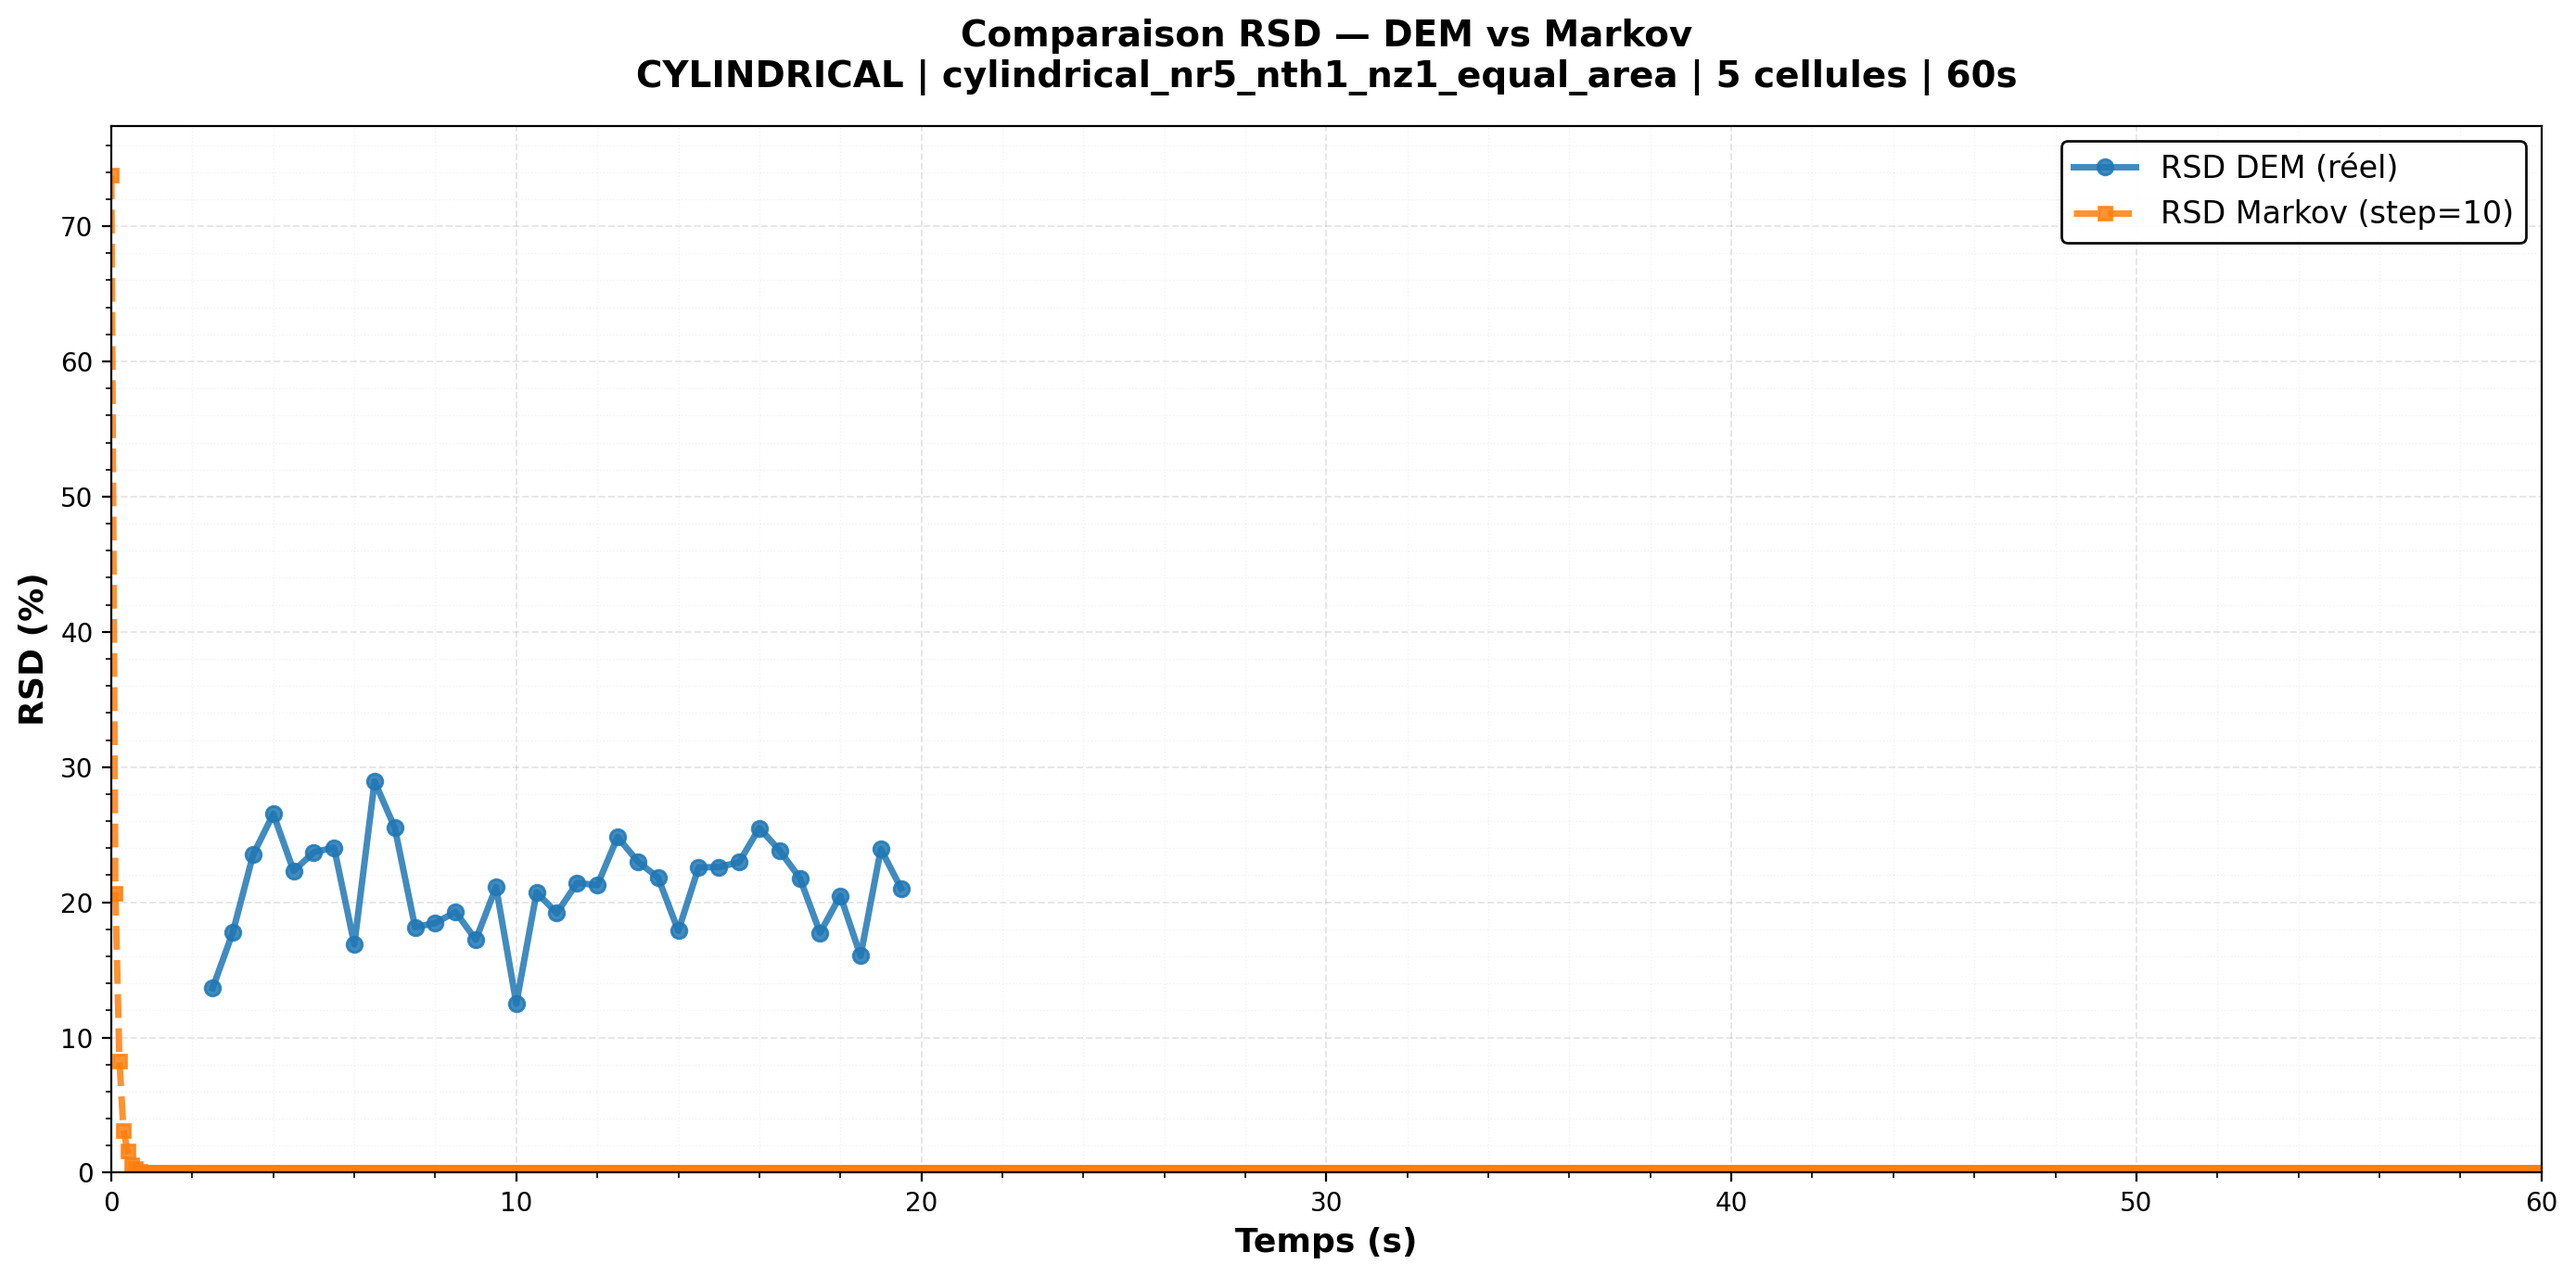
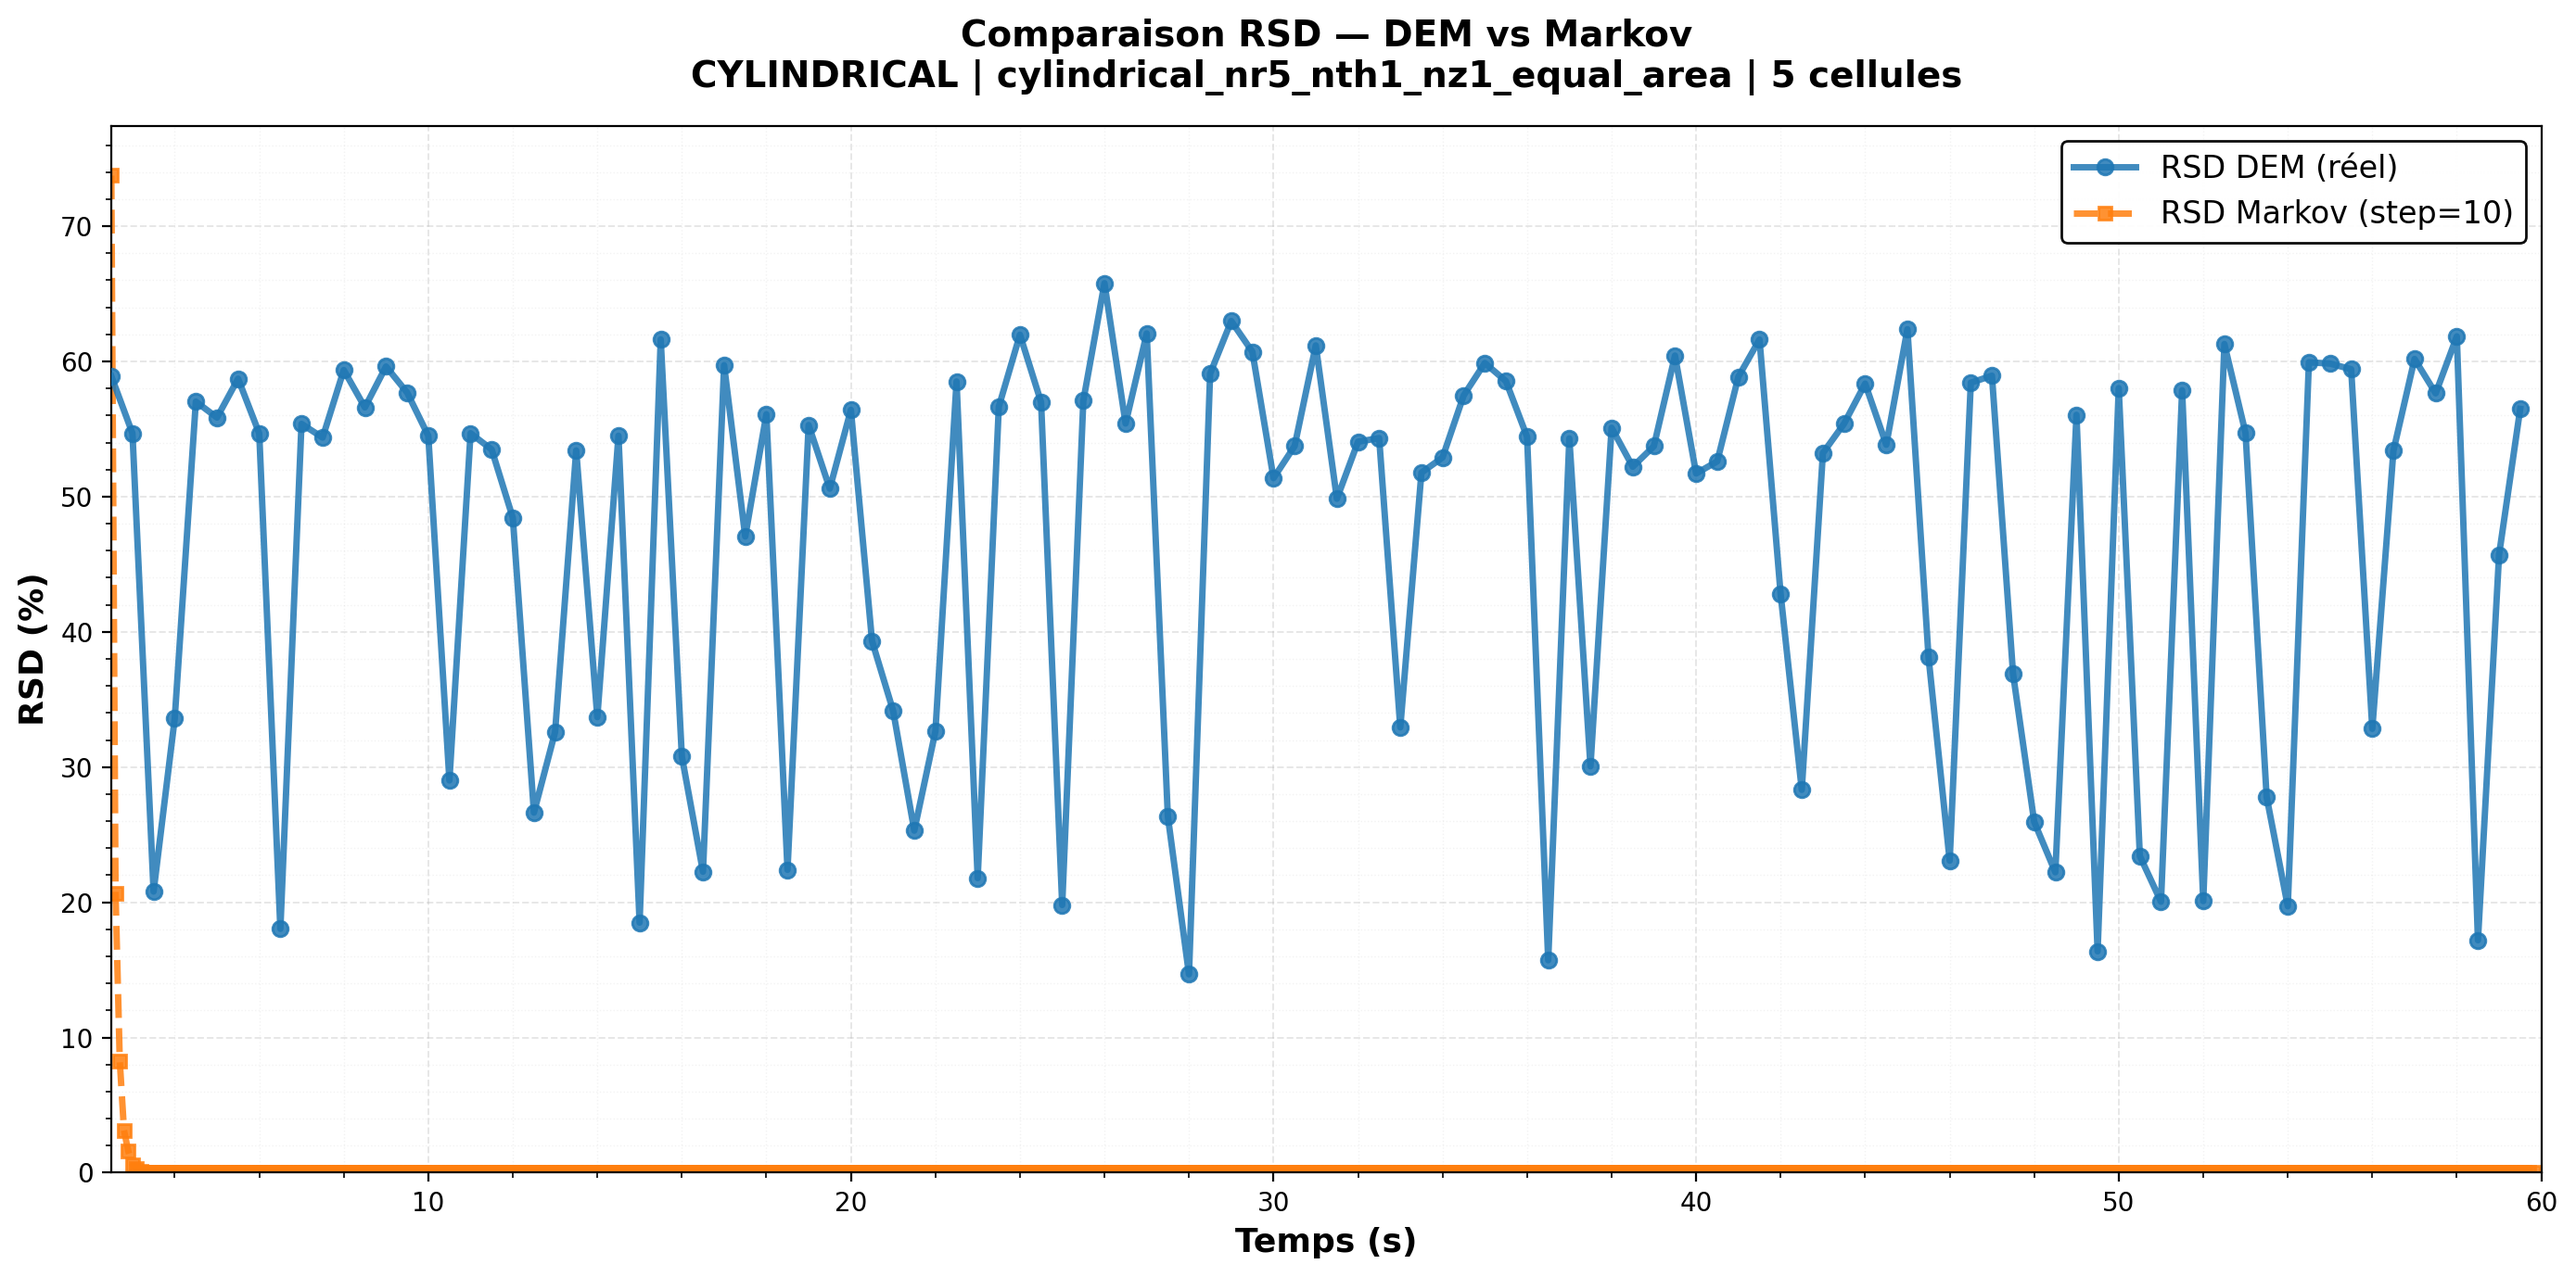
⏱ Plot DEM and Markov RSD aligned on [start, 60s] time axis
**Final implementation:**
- plot_dem_vs_markov_simple(): Recalculates BOTH DEM and Markov RSD
- DEM: loads files from start (250) to 5999 by step of 50
  → 115 snapshots from 2.50s to 59.50s
- Markov: starts at same time as DEM (start*0.01)
  → 574 predictions from 2.50s to 59.80s
- Both curves aligned on same time axis [2.50s, ~60s]

**Test results:**
✅ DEM: 115 points from 2.50s to 59.50s
✅ Markov: 574 points from 2.50s to 59.80s
✅ Figure saved: rsd_cylindrical_60s.png

diff --git a/DEM_MCM/src/analyze_results.py b/DEM_MCM/src/analyze_results.py
@@ -2056,139 +2056,124 @@ Ajoutez ces méthodes à la classe MarkovAnalyzer dans analyze_results.py
     def plot_dem_vs_markov_simple(self, dem_rsd, partitioner, method, 
                                    folder_name=None, max_time_seconds=60, figsize=(14, 7), save_name=None):
         """
-        ✅ Affiche SEULEMENT les courbes RSD DEM vs Markov sur 60 secondes.
+        ✅ Affiche SEULEMENT les courbes RSD DEM vs Markov sur [start, 60s].
         
         - Chaque fichier DEM = 0.01 secondes
-        - Le 'step' de Markov = pas de temps en centièmes de secondes (step=10 → 0.1s)
-        - Markov prédit sur 60s: n_steps = 6000 / step
-        
-        Args:
-            dem_rsd: résultats RSD DEM
-            partitioner: partitionneur utilisé
-            method: nom de la méthode
-            folder_name: nom du folder Markov (pour extraire le step)
-            max_time_seconds: temps final (par défaut 60s)
-            figsize: taille de la figure
-            save_name: nom du fichier de sortie
+        - DEM: fichiers de start à last_available (par pas de 50)
+        - Markov: step fichiers = pas de temps en centièmes de secondes
+        - Les deux courbes sont alignées sur le même axe de temps
         """
-        fig, ax = plt.subplots(figsize=figsize)
+        import re
+        from .partitioners import create_partitioner
         
-        # ════════════════════════════════════════════════════════════════
-        # 1. EXTRACTION DES PARAMÈTRES MARKOV
-        # ════════════════════════════════════════════════════════════════
+        fig, ax = plt.subplots(figsize=figsize)
         
         if folder_name is None:
             folder_name = [k for k in self.results.keys()][0] if self.results else ""
         
-        import re
+        start_match = re.search(r'start(\d+)', folder_name)
         step_match = re.search(r'step(\d+)', folder_name)
+        
+        start_file = int(start_match.group(1)) if start_match else 250
         markov_step = int(step_match.group(1)) if step_match else 10
         
-        # Temps physique par pas Markov (en secondes)
-        dt_markov_seconds = markov_step * 0.01  # step=10 → 0.1s
+        total_files = 5999
         
-        # Nombre de pas Markov pour couvrir 60 secondes
-        n_steps_markov = int(max_time_seconds / dt_markov_seconds)
-        print(f"\n📊 Paramètres Markov:")
-        print(f"   Step = {markov_step} fichiers = {dt_markov_seconds:.3f}s par pas")
-        print(f"   Prédiction: {n_steps_markov} pas pour {max_time_seconds}s")
+        print(f"\n📊 Paramètres:")
+        print(f"   Start = fichier {start_file} ({start_file*0.01:.2f}s)")
+        print(f"   Dernier fichier = {total_files} ({total_files*0.01:.2f}s)")
+        print(f"   Markov step = {markov_step} fichiers = {markov_step*0.01:.3f}s par pas")
         
-        # ════════════════════════════════════════════════════════════════
-        # 2. CALCUL RSD MARKOV SUR 60 SECONDES
-        # ════════════════════════════════════════════════════════════════
+        # Charger les snapshots DEM de start à 6000
+        file_indices = list(range(start_file, total_files + 1, 50))
+        print(f"   Chargement DEM: {len(file_indices)} fichiers")
         
-        M = self.get_matrix(folder_name)
-        initial_time = dem_rsd.get("times", [0])[0] if "times" in dem_rsd else 250
+        self.load_dem_snapshots(file_indices=file_indices)
+        if self.species_labels is None:
+            self.label_species()
         
-        # Calculer les conditions initiales depuis les données DEM
-        snap0_idx = int(initial_time)
-        if not self.dem_snapshots or self.dem_snapshots[0]["t"] != snap0_idx:
-            self.load_dem_snapshots(file_indices=[snap0_idx])
-        
-        snap0 = self.dem_snapshots[0]
-        coords0 = snap0["coords"]
-        
-        # Créer un partitionneur qui correspond à la méthode Markov
-        from .partitioners import create_partitioner
-        
-        # Extraire les paramètres du folder name
+        # Créer partitionneur Markov
         nr_match = re.search(r'nr(\d+)', folder_name)
         nth_match = re.search(r'nth(\d+)', folder_name)
         nz_match = re.search(r'nz(\d+)', folder_name)
         nx_match = re.search(r'nx(\d+)', folder_name)
         ny_match = re.search(r'ny(\d+)', folder_name)
         
-        # Déterminer la méthode et créer le bon partitionneur
-        markov_partitioner = None
         if 'cylindrical' in method.lower() and nr_match and nth_match:
             nr = int(nr_match.group(1))
             nth = int(nth_match.group(1))
             nz_val = int(nz_match.group(1)) if nz_match else 1
-            markov_partitioner = create_partitioner("cylindrical", nr=nr, ntheta=nth, nz=nz_val)
+            markov_part = create_partitioner("cylindrical", nr=nr, ntheta=nth, nz=nz_val)
         elif 'cartesian' in method.lower() and nx_match and ny_match:
             nx = int(nx_match.group(1))
             ny = int(ny_match.group(1))
             nz_val = int(nz_match.group(1)) if nz_match else 1
-            markov_partitioner = create_partitioner("cartesian", nx=nx, ny=ny, nz=nz_val)
+            markov_part = create_partitioner("cartesian", nx=nx, ny=ny, nz=nz_val)
         else:
-            # Fallback: utiliser le partitionneur existant
-            markov_partitioner = partitioner
+            markov_part = partitioner
         
-        markov_partitioner.fit(coords0)
+        all_coords = np.vstack([s["coords"] for s in self.dem_snapshots])
+        markov_part.fit(all_coords)
         
-        states0 = markov_partitioner.compute_states(coords0[:, 0], coords0[:, 1], coords0[:, 2])
-        
-        n_states = markov_partitioner.n_cells
+        n_states = markov_part.n_cells
         species_labels = self.species_labels
-        n_species = species_labels.sum()
+        
+        # Calcul RSD DEM
+        n_snaps = len(self.dem_snapshots)
+        rsd_dem = np.zeros(n_snaps)
+        times_dem_files = np.array([s["t"] for s in self.dem_snapshots])
+        
+        for i, snap in enumerate(self.dem_snapshots):
+            coords = snap["coords"]
+            states = markov_part.compute_states(coords[:, 0], coords[:, 1], coords[:, 2])
+            C_i = np.zeros(n_states)
+            for sid in range(n_states):
+                mask = states == sid
+                if mask.sum() > 0:
+                    C_i[sid] = species_labels[mask].sum() / mask.sum()
+            mask_active = C_i > 0
+            if mask_active.sum() > 1:
+                rsd_dem[i] = C_i[mask_active].std() / C_i[mask_active].mean()
+        
+        t_dem_seconds = times_dem_files * 0.01
+        
+        # Calcul RSD Markov
+        M = self.get_matrix(folder_name)
+        snap0 = self.dem_snapshots[0]
+        coords0 = snap0["coords"]
+        states0 = markov_part.compute_states(coords0[:, 0], coords0[:, 1], coords0[:, 2])
         
         C0 = np.zeros(n_states)
         phi_total_0 = np.zeros(n_states)
-        
-        for state_id in range(n_states):
-            mask = states0 == state_id
-            phi_total_0[state_id] = mask.sum()
+        for sid in range(n_states):
+            mask = states0 == sid
+            phi_total_0[sid] = mask.sum()
             if mask.sum() > 0:
-                C0[state_id] = species_labels[mask].sum()
+                C0[sid] = species_labels[mask].sum()
         
         mask_active = phi_total_0 > 0
         if phi_total_0[mask_active].sum() > 0:
             C0[mask_active] /= phi_total_0[mask_active].sum()
         
-        # Simulation Markov sur 60 secondes
+        n_steps_markov = (total_files - start_file) // markov_step
         C = C0.copy()
         rsd_markov = np.zeros(n_steps_markov)
         
         for t in range(n_steps_markov):
             if mask_active.sum() > 1:
-                mean_c = C[mask_active].mean()
-                std_c = C[mask_active].std()
-                rsd_markov[t] = std_c / mean_c if mean_c > 0 else 0
+                rsd_markov[t] = C[mask_active].std() / C[mask_active].mean() if C[mask_active].mean() > 0 else 0
             C = C @ M
         
-        # Temps Markov en secondes
-        t_markov_seconds = np.arange(n_steps_markov) * dt_markov_seconds
+        t_markov_seconds = (start_file + np.arange(n_steps_markov) * markov_step) * 0.01
         
-        # ════════════════════════════════════════════════════════════════
-        # 3. TEMPS DEM EN SECONDES
-        # ════════════════════════════════════════════════════════════════
+        print(f"   DEM: {n_snaps} points de {t_dem_seconds[0]:.2f}s à {t_dem_seconds[-1]:.2f}s")
+        print(f"   Markov: {n_steps_markov} points de {t_markov_seconds[0]:.2f}s à {t_markov_seconds[-1]:.2f}s")
         
-        times_dem_indices = dem_rsd.get("times", np.arange(len(dem_rsd["rsd"])))
-        t_dem_seconds = times_dem_indices * 0.01  # Chaque fichier = 0.01s
-        
-        print(f"   DEM: {len(t_dem_seconds)} points de {t_dem_seconds[0]:.2f}s à {t_dem_seconds[-1]:.2f}s")
-        print(f"   Markov: {n_steps_markov} points de 0s à {t_markov_seconds[-1]:.2f}s")
-        
-        # ════════════════════════════════════════════════════════════════
-        # 4. PLOT RSD DEM vs Markov
-        # ════════════════════════════════════════════════════════════════
-        
-        # DEM curve (points)
-        ax.plot(t_dem_seconds, dem_rsd["rsd_percent"],
+        # Plot
+        ax.plot(t_dem_seconds, rsd_dem * 100,
                color="#1f77b4", marker='o', linewidth=2.5, markersize=6,
                label="RSD DEM (réel)", zorder=3, alpha=0.85)
         
-        # Markov curve (smooth line)
         ax.plot(t_markov_seconds, rsd_markov * 100,
                color="#ff7f0e", marker='s', linewidth=2.5, markersize=5, linestyle='--',
                label=f"RSD Markov (step={markov_step})", zorder=2, alpha=0.85)
@@ -2197,13 +2182,13 @@ Ajoutez ces méthodes à la classe MarkovAnalyzer dans analyze_results.py
         ax.set_ylabel("RSD (%)", fontsize=13, fontweight='bold')
         ax.set_title(
             f"Comparaison RSD — DEM vs Markov\n"
-            f"{method.upper()} | {partitioner.label} | {partitioner.n_cells} cellules | {max_time_seconds}s",
+            f"{method.upper()} | {partitioner.label} | {partitioner.n_cells} cellules",
             fontsize=14, fontweight='bold', pad=15
         )
         
         ax.legend(fontsize=12, loc='best', framealpha=0.95, edgecolor='black')
         ax.grid(True, alpha=0.3, linestyle='--', linewidth=0.7)
-        ax.set_xlim(0, max_time_seconds)
+        ax.set_xlim(t_dem_seconds[0], max_time_seconds)
         ax.set_ylim(bottom=0)
         ax.minorticks_on()
         ax.grid(True, which='minor', alpha=0.15, linestyle=':', linewidth=0.5)
@@ -2211,7 +2196,7 @@ Ajoutez ces méthodes à la classe MarkovAnalyzer dans analyze_results.py
         plt.tight_layout()
         
         if save_name is None:
-            save_name = f"rsd_dem_vs_markov_{method}_{partitioner.n_cells}cells_{max_time_seconds}s.png"
+            save_name = f"rsd_{method}_{partitioner.n_cells}cells.png"
         
         plt.savefig(save_name, dpi=200, bbox_inches='tight', facecolor='white')
         print(f"\n✅ Figure sauvegardée: {save_name}")
